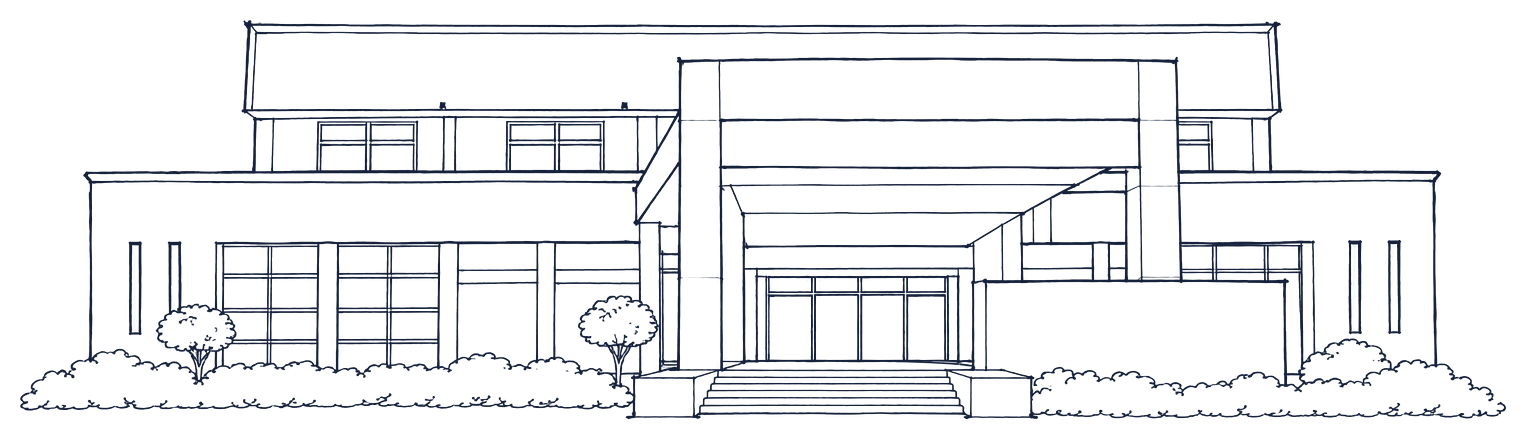
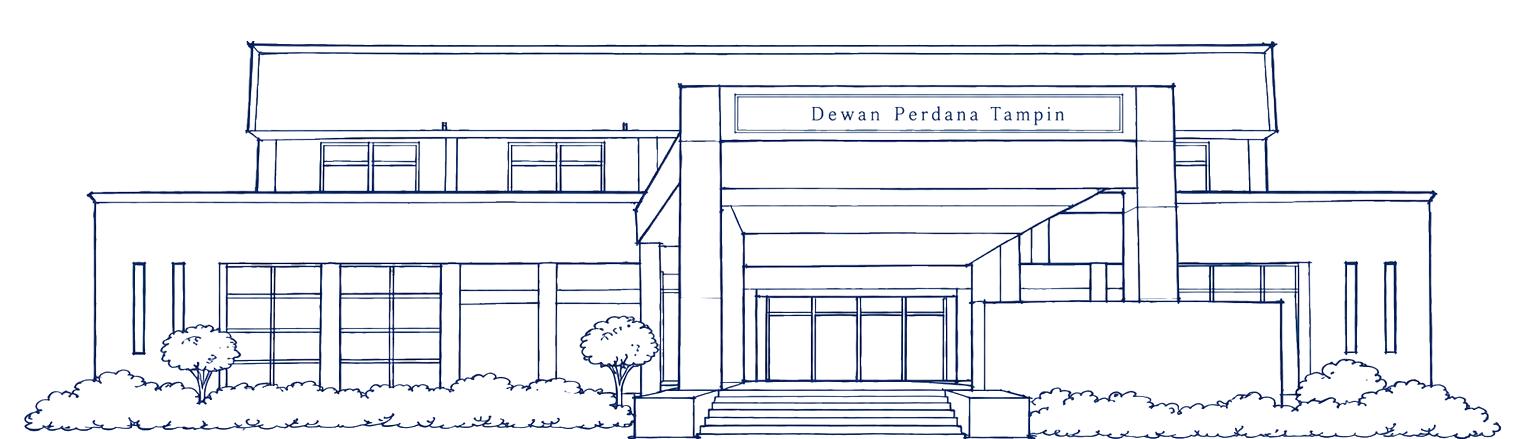
Refine invitation visuals and dresscode

Changed region(s): [[0.0, 0.0296, 0.9856, 1.0]]

diff --git a/src/fullscreen.css b/src/fullscreen.css
@@ -28,6 +28,7 @@ main {
   transform-origin: center top;
 }
 .couple-names .bride-name { font-family: 'Allura', var(--script), cursive; font-size: 1.25em; line-height: 1; }
+.couple-names { color: #735d49; }
 .sidebar.is-open { max-height: calc(100dvh - 90px); overflow-y: auto; }
 
 .site-transition-layer {
@@ -176,30 +177,32 @@ main {
     mask-image: linear-gradient(#000 76%, transparent);
   }
   .note-page .memory img { display: block; width: 100%; max-width: none; max-height: none; height: 100%; object-fit: cover; object-position: center top; }
-  .note-page .memory-1 { left: 0 !important; right: auto !important; top: -112px !important; transform: rotate(-7deg); }
-  .note-page .memory-2 { left: 50% !important; right: auto !important; top: -108px !important; transform: translateX(-50%) rotate(5deg); }
-  .note-page .memory-3 { left: auto !important; right: 0 !important; top: -111px !important; transform: rotate(-5deg); }
+  .note-page .memory-1 { left: 0 !important; right: auto !important; top: -126px !important; transform: rotate(-7deg); }
+  .note-page .memory-2 { left: 50% !important; right: auto !important; top: -122px !important; transform: translateX(-50%) rotate(5deg); }
+  .note-page .memory-3 { left: auto !important; right: 0 !important; top: -125px !important; transform: rotate(-5deg); }
   .note-page .memory-4 { left: 0 !important; right: auto !important; top: auto !important; bottom: -84px !important; transform: rotate(6deg); }
-  .note-page .memory-5 { left: 50% !important; right: auto !important; top: auto !important; bottom: -86px !important; transform: translateX(-50%) rotate(-5deg); }
-  .note-page .memory-6 { left: auto !important; right: 0 !important; top: auto !important; bottom: -82px !important; transform: rotate(6deg); }
+  .note-page .memory-5 { left: 50% !important; right: auto !important; top: auto !important; bottom: -98px !important; width: clamp(100px, 31vw, 126px) !important; height: clamp(96px, 13.5dvh, 116px); transform: translateX(-50%) rotate(-5deg); }
+  .note-page .memory-6 { left: auto !important; right: 0 !important; top: auto !important; bottom: -94px !important; width: clamp(100px, 31vw, 126px) !important; height: clamp(96px, 13.5dvh, 116px); transform: rotate(6deg); }
 }
 
 @media (max-width: 767px) and (max-height: 700px) {
-  .note-page .memory-1 { top: -99px !important; }
-  .note-page .memory-2 { top: -95px !important; }
-  .note-page .memory-3 { top: -98px !important; }
+  .note-page .memory-1 { top: -103px !important; }
+  .note-page .memory-2 { top: -99px !important; }
+  .note-page .memory-3 { top: -102px !important; }
+  .note-page .memory-5 { bottom: -92px !important; }
+  .note-page .memory-6 { bottom: -88px !important; }
 }
 
 .invitation-page { max-width: 790px; padding: 36px 20px; text-align: center; }
 .invitation-page .bismillah { font-family: 'Traditional Arabic', 'Times New Roman', serif; font-size: 21px; line-height: 1.8; }
 .invitation-page h1 { margin: 3px 0 24px; font-size: clamp(44px, 4.3vw, 62px); }
-.invitation-copy { display: grid; justify-items: center; gap: 17px; }
-.invitation-copy p { max-width: 700px; font-size: 19px; line-height: 1.4; }
-.invitation-copy .invitation-hosts { font-size: clamp(25px, 2.6vw, 32px); line-height: 1.2; }
+.invitation-copy { display: grid; justify-items: center; gap: 17px; width: 100%; }
+.invitation-copy p { width: 100%; max-width: 700px; font-size: 19px; line-height: 1.4; }
+.invitation-copy .invitation-hosts { font-size: clamp(25px, 2.6vw, 32px); font-weight: 500; letter-spacing: .025em; line-height: 1.2; text-transform: uppercase; }
 .invitation-copy .invitation-hosts-stack { display: grid; justify-items: center; gap: 2px; }
 .invitation-copy .invitation-host-divider { font-size: .85em; font-style: italic; }
 .invitation-copy .invitation-address { font-size: 18px; font-style: italic; }
-.invitation-copy .invitation-couple { display: grid; justify-items: center; gap: 3px; max-width: 730px; margin-top: 4px; font-family: 'Cormorant Garamond', Georgia, serif; font-size: clamp(24px, 2.2vw, 30px); line-height: 1.12; }
+.invitation-copy .invitation-couple { display: grid; justify-items: center; gap: 3px; max-width: 730px; margin-top: 4px; font-family: 'Allura', var(--script), cursive; font-size: clamp(36px, 3.1vw, 44px); line-height: .98; }
 .invitation-copy .invitation-name-divider { font-size: .85em; font-style: italic; }
 
 @media (max-width: 767px) {
@@ -207,10 +210,10 @@ main {
   .invitation-page .bismillah { font-size: 18px; }
   .invitation-page h1 { margin: 2px 0 17px; font-size: 46px; }
   .invitation-copy { gap: 12px; }
-  .invitation-copy p { font-size: 16px; line-height: 1.3; }
-  .invitation-copy .invitation-hosts { font-size: 24px; }
+  .invitation-copy p { width: 100%; font-size: 16px; line-height: 1.3; }
+  .invitation-copy .invitation-hosts { font-size: clamp(14px, 4.3vw, 17px); line-height: 1.25; }
   .invitation-copy .invitation-address { font-size: 16px; }
-  .invitation-copy .invitation-couple { width: 100%; font-size: clamp(16px, 4.5vw, 20px); line-height: 1.1; }
+  .invitation-copy .invitation-couple { width: 100%; font-size: clamp(18px, 4.8vw, 21px); line-height: 1; }
   .invitation-copy .invitation-couple > span { white-space: nowrap; }
 }
 
@@ -218,7 +221,7 @@ main {
   .invitation-page { padding: 14px 8px; }
   .invitation-copy { gap: 10px; }
   .invitation-copy p { font-size: 15px; }
-  .invitation-copy .invitation-hosts { font-size: 22px; }
+  .invitation-copy .invitation-hosts { font-size: 14px; }
   .invitation-copy .invitation-address { font-size: 15px; }
-  .invitation-copy .invitation-couple { font-size: 16px; }
+  .invitation-copy .invitation-couple { font-size: 17px; }
 }

diff --git a/tests/invitation.spec.js b/tests/invitation.spec.js
@@ -47,6 +47,9 @@ test('navigation, direct links, history and assets work', async ({ page }) => {
   await expect(page.locator('.sidebar')).toHaveCSS('background-color', 'rgb(229, 228, 226)');
   await expect(page.locator('.desktop-header')).toHaveText('WALIMATULURUS');
   await expect(page.locator('.couple-names')).toContainText('Anis');
+  await expect(page.locator('.venue-name')).toHaveText('Negeri Sembilan');
+  await expect(page.locator('.venue-region')).toHaveCount(0);
+  expect(await page.locator('.couple-names').evaluate(element => getComputedStyle(element).color)).toBe('rgb(115, 93, 73)');
   await expect(page.locator('.bride-name')).toHaveText('Anis');
   await expect(page.locator('.bride-initial')).toHaveCount(0);
   expect(await page.locator('.bride-name').evaluate(element => getComputedStyle(element).fontFamily)).toContain('Allura');
@@ -59,7 +62,7 @@ test('navigation, direct links, history and assets work', async ({ page }) => {
   await expect(page.locator('[data-page="invitation"][aria-current]')).toBeVisible();
   await page.locator('nav a[href="#dresscode"]').click();
   await expect(page.locator('[data-page="dresscode"][aria-current]')).toBeVisible();
-  await expect(page.locator('.dress-piece')).toHaveCount(16);
+  await expect(page.locator('.dress-piece')).toHaveCount(15);
   await page.keyboard.press('ArrowRight');
   await expect(page.locator('main')).toHaveAttribute('data-page', 'location');
   await page.goBack();
@@ -108,13 +111,16 @@ test('bride invitation uses supplied wording and preview query remains separate'
     'ke majlis walimatulurus puteri kesayangan kami bersama pasangan pilihan hatinya',
     'Anis Jamilah Jamlus&Mohd Shahizwan Mohammad Shahari',
   ]);
-  expect(await page.locator('.invitation-couple').evaluate(element => getComputedStyle(element).fontFamily)).toContain('Cormorant Garamond');
+  expect(await page.locator('.invitation-hosts').evaluate(element => getComputedStyle(element).textTransform)).toBe('uppercase');
+  expect(await page.locator('.invitation-couple').evaluate(element => getComputedStyle(element).fontFamily)).toContain('Allura');
   await expect(page.locator('.invitation-couple span')).toHaveText([
     'Anis Jamilah Jamlus',
     '&',
     'Mohd Shahizwan Mohammad Shahari',
   ]);
   await page.setViewportSize({width:390,height:844});
+  expect(await page.locator('.invitation-hosts').evaluate(element => getComputedStyle(element).textTransform)).toBe('uppercase');
+  expect(await page.locator('.invitation-couple').evaluate(element => getComputedStyle(element).fontFamily)).toContain('Allura');
   expect(await page.locator('.invitation-couple > span').evaluateAll(elements => elements.every(element => getComputedStyle(element).whiteSpace === 'nowrap'))).toBe(true);
   expect(await page.locator('.invitation-couple').evaluate(element => element.scrollWidth <= element.clientWidth)).toBe(true);
   await page.goto('/?invite=lelaki#home');
@@ -142,6 +148,7 @@ test('bride and groom site configs contain their own invitation copy', () => {
 test('venue and contact links use supplied values', async ({ page }) => {
   await page.goto('/#location');
   await expect(page.locator('.contact')).toHaveCount(2);
+  await expect(page.locator('.location-details')).not.toContainText('Majlis resepsi');
   await expect(page.locator('.venue-lineart')).toHaveAttribute('src', '/assets/dewan_sketch-transparent.png');
   await expect(page.locator('.venue-lineart')).toBeVisible();
   await expect(page.locator('.venue-lineart')).toHaveJSProperty('naturalWidth', 1526);
@@ -256,6 +263,8 @@ for(const width of [320,390,768,1440]) {
         expect(overlaps).toEqual([false, false, false, false, false, false]);
         const portraitWidths = await page.locator('main .memory img').evaluateAll(images => images.map(image => image.getBoundingClientRect().width));
         expect(Math.min(...portraitWidths)).toBeGreaterThan(width === 320 ? 80 : 100);
+        expect(portraitWidths[4]).toBeGreaterThan(portraitWidths[3] + 5);
+        expect(portraitWidths[5]).toBeGreaterThan(portraitWidths[3] + 5);
       }
       await expectPageInViewport(page, id);
     }

diff --git a/src/main.js b/src/main.js
@@ -72,9 +72,10 @@ const scrollNavigation = installScrollNavigation({
 });
 
 function homePage() {
+  const region = wedding.location.split(',').at(-1).trim();
   return `<section class="page home-page" aria-labelledby="page-title">
     <h1 id="page-title" class="couple-names" tabindex="-1"><span class="groom-name">Shahizwan</span><span class="ampersand">&</span><span class="bride-name">Anis</span></h1>
-    <div class="event-summary"><span class="eyebrow">${wedding.day}</span><p class="wedding-date"><time datetime="${wedding.dateISO}">${wedding.date}</time></p><p>${wedding.time}</p><span class="short-rule"></span><p class="venue-name">${wedding.venue}</p><p class="venue-region">${wedding.location}</p></div>
+    <div class="event-summary"><span class="eyebrow">${wedding.day}</span><p class="wedding-date"><time datetime="${wedding.dateISO}">${wedding.date}</time></p><p>${wedding.time}</p><span class="short-rule"></span><p class="venue-name">${region}</p></div>
   </section>`;
 }
 
@@ -112,7 +113,7 @@ function locationPage() {
     : inviteSide === 'lelaki'
       ? wedding.contacts.filter(contact => contact.side === 'Pihak lelaki')
       : wedding.contacts;
-  return `<section class="page location-page" aria-labelledby="page-title"><div class="section-heading"><p class="eyebrow">Lokasi majlis</p><h1 id="page-title" tabindex="-1">Jumpa anda <em>di sini.</em></h1></div><img class="venue-lineart" src="/assets/dewan-perdana-lineart.svg" alt="Lakaran garisan fasad Dewan Perdana Tampin" width="760" height="305" /><div class="location-details"><span class="eyebrow">Majlis resepsi</span><h2>${wedding.venue}</h2><p>${wedding.location}</p><p class="location-time">${wedding.date}<span>·</span>${wedding.time}</p><a class="button" href="${wedding.mapsUrl}" target="_blank" rel="noopener noreferrer">${pin}Buka Google Maps${external}</a><p class="map-caption">Carian lokasi: Dewan Perdana, Tampin</p></div><div class="contacts"><p class="eyebrow">Perlukan bantuan ke lokasi majlis?</p><div class="contact-grid" data-count="${contacts.length}">${contacts.map(c=>`<a class="contact" href="https://wa.me/${c.international}?text=${encodeURIComponent('Assalamualaikum, saya ingin bertanya tentang majlis Shahizwan & Anis pada 9 Januari 2027.')}" target="_blank" rel="noopener noreferrer"><span class="eyebrow">${c.side}</span><span class="contact-name">${c.name} ${external}</span><span class="contact-number">${c.phone} · WhatsApp</span></a>`).join('')}</div></div></section>`;
+  return `<section class="page location-page" aria-labelledby="page-title"><div class="section-heading"><p class="eyebrow">Lokasi majlis</p><h1 id="page-title" tabindex="-1">Jumpa anda <em>di sini.</em></h1></div><img class="venue-lineart" src="/assets/dewan-perdana-lineart.svg" alt="Lakaran garisan fasad Dewan Perdana Tampin" width="760" height="305" /><div class="location-details"><h2>${wedding.venue}</h2><p>${wedding.location}</p><p class="location-time">${wedding.date}<span>·</span>${wedding.time}</p><a class="button" href="${wedding.mapsUrl}" target="_blank" rel="noopener noreferrer">${pin}Buka Google Maps${external}</a><p class="map-caption">Carian lokasi: Dewan Perdana, Tampin</p></div><div class="contacts"><p class="eyebrow">Perlukan bantuan ke lokasi majlis?</p><div class="contact-grid" data-count="${contacts.length}">${contacts.map(c=>`<a class="contact" href="https://wa.me/${c.international}?text=${encodeURIComponent('Assalamualaikum, saya ingin bertanya tentang majlis Shahizwan & Anis pada 9 Januari 2027.')}" target="_blank" rel="noopener noreferrer"><span class="eyebrow">${c.side}</span><span class="contact-name">${c.name} ${external}</span><span class="contact-number">${c.phone} · WhatsApp</span></a>`).join('')}</div></div></section>`;
 }
 
 function rsvpPage() {

diff --git a/tests/dresscode.spec.js b/tests/dresscode.spec.js
@@ -9,6 +9,10 @@ test('individual pieces drag independently, stay in bounds and reset', async ({ 
   await expect(page.locator('.dresscode-page')).toContainText('Tradisional / Smart Casual');
   await expect(page.locator('.dresscode-page')).toContainText('kecuali putih dan silver.');
   await expect(page.locator('.page-footer')).toHaveCount(0);
+  await expect(page.locator('.dress-piece')).toHaveCount(15);
+  await expect(page.getByRole('button', {name:'Beg tangan perang kelabu'})).toHaveCount(0);
+  await expect(page.getByRole('button', {name:'Capal hitam'})).toHaveCount(0);
+  await expect(page.getByRole('button', {name:'Kasut bertutup lelaki'})).toBeVisible();
   await page.emulateMedia({ reducedMotion: 'reduce' });
   const songkok = page.getByRole('button', { name: 'Songkok hitam', exact: true });
   const shirt = page.getByRole('button', { name: 'Baju Melayu biru gelap', exact: true });
@@ -80,7 +84,7 @@ test('phone tabs and touch dragging work without page swipes', async ({ page, co
   expect(after.x - before.x).toBeCloseTo(40, 0);
   expect(after.y - before.y).toBeCloseTo(70, 0);
   await page.setViewportSize({ width: 1440, height: 900 });
-  await expect.poll(() => page.locator('.dress-piece:visible').count()).toBe(16);
+  await expect.poll(() => page.locator('.dress-piece:visible').count()).toBe(15);
   const rect = await page.locator('.outfit-board').boundingBox();
   const piece = await songkok.boundingBox();
   expect(piece.x).toBeGreaterThanOrEqual(rect.x - 1);

diff --git a/src/dresscode.js b/src/dresscode.js
@@ -11,11 +11,10 @@ const pieces = [
   { id: 'sampin', label: 'Sampin biru dan emas', cell: 10, side: 'men', x: 475, mobileX: 105, y: 210, size: 104, layer: 3 },
   { id: 'selendang', label: 'Selendang perang kelabu', cell: 2, side: 'women', x: 98, mobileX: 98, y: 52, size: 88, layer: 4 },
   { id: 'songkok', label: 'Songkok hitam', cell: 11, side: 'men', x: 475, mobileX: 105, y: 39, size: 65, layer: 4 },
-  { id: 'handbag', label: 'Beg tangan perang kelabu', cell: 6, side: 'women', x: 325, mobileX: 340, y: 201, size: 80, layer: 4 },
   { id: 'black-heels', label: 'Kasut wanita hitam', cell: 3, side: 'women', x: 105, mobileX: 105, y: 320, size: 76, layer: 3 },
   { id: 'brown-heels', label: 'Kasut wanita coklat', cell: 7, side: 'women', x: 265, mobileX: 285, y: 320, size: 72, layer: 3 },
   { id: 'loafers', label: 'Kasut loafer lelaki', cell: 14, side: 'men', x: 640, mobileX: 285, y: 320, size: 76, layer: 3 },
-  { id: 'capal', label: 'Capal hitam', cell: 15, side: 'men', x: 475, mobileX: 105, y: 320, size: 72, layer: 3 },
+  { id: 'covered-shoes', label: 'Kasut bertutup lelaki', cell: 14, side: 'men', x: 475, mobileX: 105, y: 320, size: 72, layer: 3 },
 ];
 
 const arrangements = new Map();
